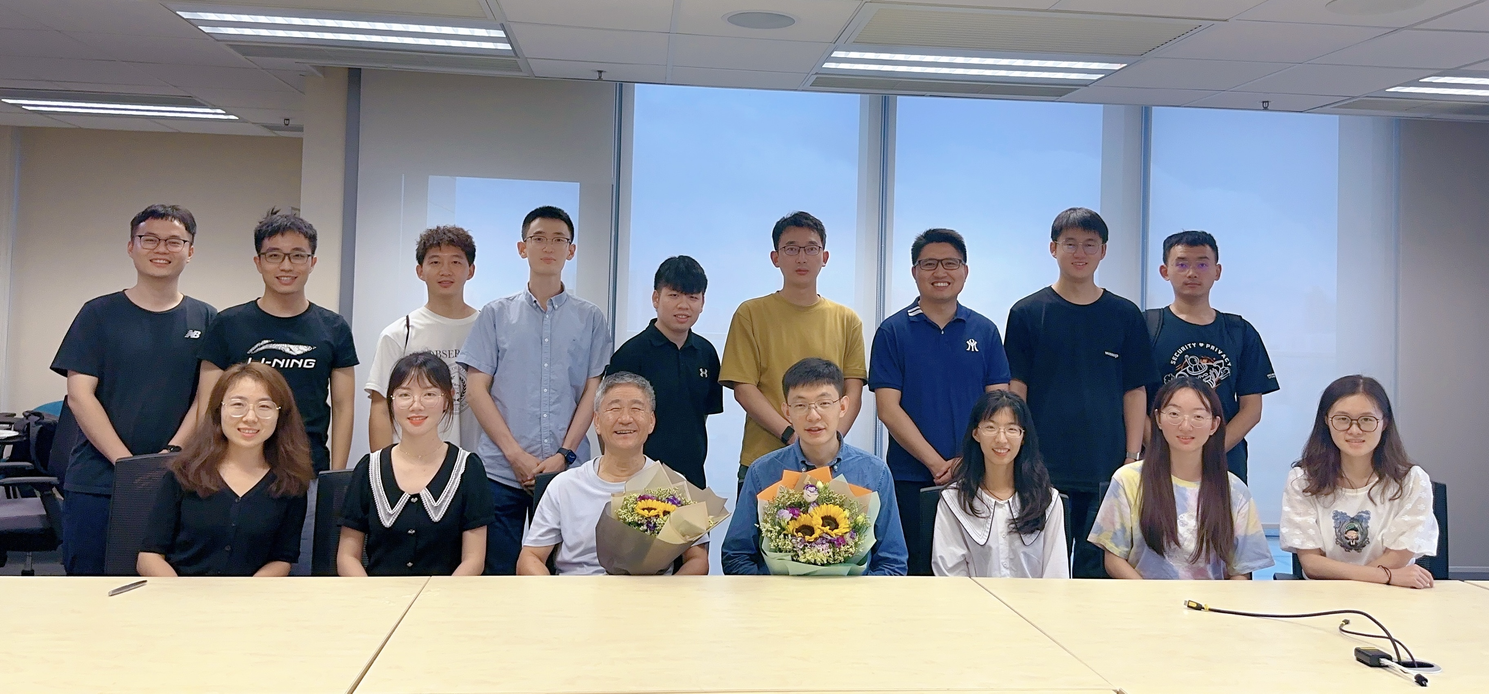
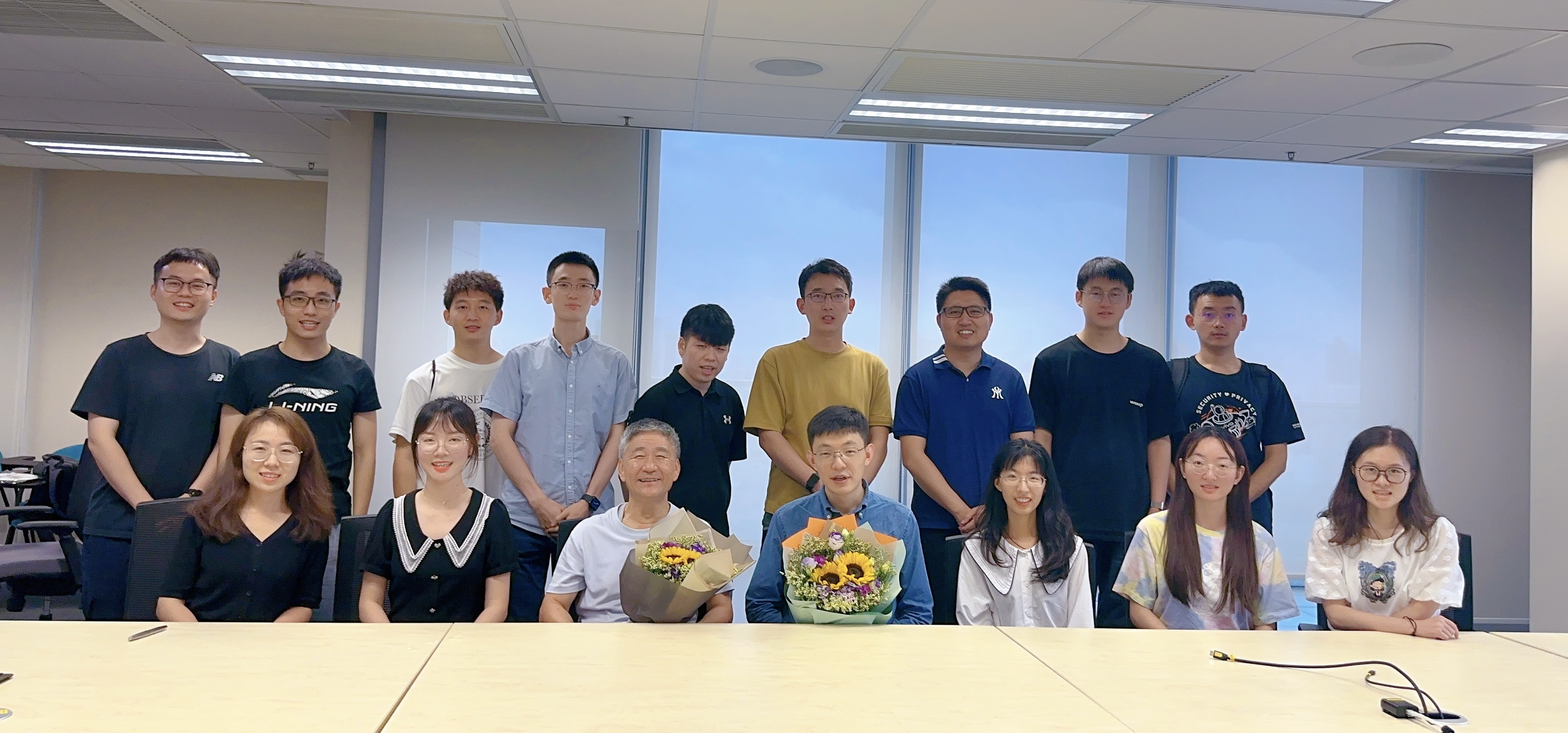
update

diff --git a/content/_index.md b/content/_index.md
@@ -18,7 +18,7 @@ sections:
       columns: '1'
       background:
         image:
-          filename: group_photo.jpg
+          filename: group2.jpg
           filters:
             brightness: 1
           parallax: True
@@ -100,32 +100,43 @@ sections:
       title: Latest News
       subtitle: 
       text: |-
-            <b>[01/18/2023]</b> 🔥🔥🔥 Congratulations to **Prof. Fang**, who has been elevated to <b><span style="color:#1565C0;"><a href="https://www.acm.org/media-center/2023/january/fellows-2022">  ACM Fellow</a>   </span></b>!!!
-            <br> <br>
-            <b>[08/05/2022]</b> 🔥🔥🔥 Congratulations to **Prof. Fang**, who will join the Department of Computer Science, City University of Hong Kong (CityU), as the **Chair Professor of Internet of Things**!!! 
-            <br> <br>
-            <b>[06/21/2022]</b> Congratulations to **Dr. Jianqing Liu**, our former member, who will join the Department of Computer Science, North Carolina State University (NC State), as an **assistant professor**!!! (6/21/2022) <br><br>
-            <b>[05/10/2022]</b> Congratulations to **Kaichen**, who has accepted an **assistant professor** position in the Department of Electrical and Computer Engineering at **Michigan Technological University**!!! <br><br>
-            <b>[05/05/2022]</b> Congratulations to **Linke**, our former member, who has been promoted to **Associate Professor** with tenure in the Department of Electrical and Computer Engineering at Clemson University!!!<br> <br>
-            <b>[03/29/2022]</b> Congratulations to **Xianhao**, who has accepted a **tenure-track Assistant Professor** position in the Department of Electrical and Electronic Engineering at **University of Hong Kong**!!! <br> <br>
-            
-            {{< spoiler text="Click to View More" >}}
-            
-            - <b>[04/30/2022]</b> Congratulations to **Rui Hu** (a PhD student of Dr. Yanmin Gong), who has accepted an **Assistant Professor** position at the Department of Computer Science and Engineering, **University of Nevada, Reno**!!!  <br> <br>
-            - <b>[04/25/2022]</b> Congratulations to **Yifang Guo** and **Tianxi Ji** (PhD students of Dr. Pan Li), who have accepted **tenure-track** **Assistant Professor** positions in the Department of Computer and Information Sciences at **Towson University** and the Department of Computer Science at **Texas Technological University**, respectively!!! Congratulations to Pan as well!<br> <br>
-            - <b>[04/01/2022]</b> Congratulations to **Yaodan**, who has accepted an **assistant professor** position in the Department of Electrical and Computer Engineering at **Idaho State University**!!!<br> <br> 
-            - <b>[02/02/2022]</b> Congratulations to **Yanmin** and **Yuanxiong**, our former members, who have been promoted to **Associate Professor** with tenure at University of Texas at San Antonio!!! <br> <br>
-            - <b>[11/11/2022]</b> Congratulations to **Haichuan (Ding)**, who has joined the School of Cyberspace Science and Technology, **Beijing Institute of Technology**, Beijing, China, as a **full professor**! <br> <br>
-            {{< /spoiler >}}
 
-    design:
-      columns: '2'
-      
-        
-        
-       
-      
+            
+            <html lang="en">
+            <head>
+                <meta charset="UTF-8">
+                <meta name="viewport" content="width=device-width, initial-scale=1.0">
+                <title>Scrollable Content</title>
+                <style>
+                    .scrollable-content {
+                        height: 800px;
+                        overflow-y: scroll;
+                        # border: 1px solid #ccc;
+                        padding: 10px;
+                    }
+                </style>
+            </head>
+            <body>
 
+            <div class="scrollable-content">
+                <b>[01/18/2023]</b> 🔥🔥🔥 Congratulations to <b>Prof. Fang</b>, who has been elevated to <b><span style="color:#1565C0;"><a href="https://www.acm.org/media-center/2023/january/fellows-2022">  ACM Fellow</a>   </span></b>!!!
+              <br> <br>
+              <b>[08/05/2022]</b> 🔥🔥🔥 Congratulations to <b>Prof. Fang</b>, who will join the Department of Computer Science, City University of Hong Kong (CityU), as the <b>Chair Professor of Internet of Things</b>!!! 
+              <br> <br>
+              <b>[06/21/2022]</b> Congratulations to <b>Dr. Jianqing Liu</b>, our former member, who will join the Department of Computer Science, North Carolina State University (NC State), as an <b>assistant professor</b>!!! (6/21/2022) <br><br>
+              <b>[05/10/2022]</b> Congratulations to <b>Kaichen</b>, who has accepted an <b>assistant professor</b> position in the Department of Electrical and Computer Engineering at <b>Michigan Technological University</b>!!! <br><br>
+              <b>[05/05/2022]</b> Congratulations to <b>Linke</b>, our former member, who has been promoted to <b>Associate Professor</b> with tenure in the Department of Electrical and Computer Engineering at Clemson University!!!<br> <br>
+              <b>[03/29/2022]</b> Congratulations to <b>Xianhao</b>, who has accepted a <b>tenure-track Assistant Professor</b> position in the Department of Electrical and Electronic Engineering at <b>The University of Hong Kong</b>!!! <br> <br>
+
+              <b>[04/30/2022]</b> Congratulations to <b>Rui Hu</b> (a PhD student of Dr. Yanmin Gong), who has accepted an <b>Assistant Professor</b> position at the Department of Computer Science and Engineering, <b>University of Nevada, Reno</b>!!!  <br> <br>
+              <b>[04/25/2022]</b> Congratulations to <b>Yifang Guo</b> and <b>Tianxi Ji</b> (PhD students of Dr. Pan Li), who have accepted <b>tenure-track</b> <b>Assistant Professor</b> positions in the Department of Computer and Information Sciences at <b>Towson University</b> and the Department of Computer Science at <b>Texas Technological University</b>, respectively!!! Congratulations to Pan as well!<br> <br>
+              <b>[04/01/2022]</b> Congratulations to <b>Yaodan</b>, who has accepted an <b>assistant professor</b> position in the Department of Electrical and Computer Engineering at <b>Idaho State University</b>!!!<br> <br> 
+              <b>[02/02/2022]</b> Congratulations to <b>Yanmin</b> and <b>Yuanxiong</b>, our former members, who have been promoted to <b>Associate Professor</b> with tenure at University of Texas at San Antonio!!! <br> <br>
+              <b>[11/11/2022]</b> Congratulations to <b>Haichuan Ding</b>, who has joined the School of Cyberspace Science and Technology, <b>Beijing Institute of Technology<b>, Beijing, China, as a <b>full professor<b>! <br> <br>
+            </div>
+
+            </body>
+            </html>
     design:
       columns: '2'
       background:
@@ -141,24 +152,24 @@ sections:
       #   padding: ['20px', '0', '20px', '0']
       # css_class: fullscreen
       
-  - block: collection
-    content:
-      title: Latest News
-      subtitle: 
-      text: 
-      count: 5
-      filters:
-        author: ''
-        category: ''
-        exclude_featured: false
-        publication_type: ''
-        tag: ''
-      offset: 0
-      order: desc
-      page_type: event
-    design:
-      view: showcase
-      columns: '2'
+  # - block: collection
+  #   content:
+  #     title: Latest News
+  #     subtitle: 
+  #     text: 
+  #     count: 5
+  #     filters:
+  #       author: ''
+  #       category: ''
+  #       exclude_featured: false
+  #       publication_type: ''
+  #       tag: ''
+  #     offset: 0
+  #     order: desc
+  #     page_type: event
+  #   design:
+  #     view: showcase
+  #     columns: '2'
   
   # - block: markdown
   #   content:

diff --git a/content/people/index.md b/content/people/index.md
@@ -7,7 +7,7 @@ type: landing
 sections:
   
   # - block: 
-  #   # id: about
+  #   id: about
   #   content: 
   #     title: <img src="http://www.fang.ece.ufl.edu/fang13.jpg" width="60%"> 
   #     subtitle: <b>Prof. FANG Yuguang<b><br>ACM Fellow, IEEE Fellow
@@ -16,7 +16,7 @@ sections:
         
   #   design:
   #     columns: '2'
-      # username: admin
+  #     username: admin
   - block: people
     content:
       title: Meet the Team
@@ -34,6 +34,7 @@ sections:
       show_interests: false
       show_role: true
       show_social: true
+      # show_organizations: true
   - block: people
     content:
       title: Former Members
